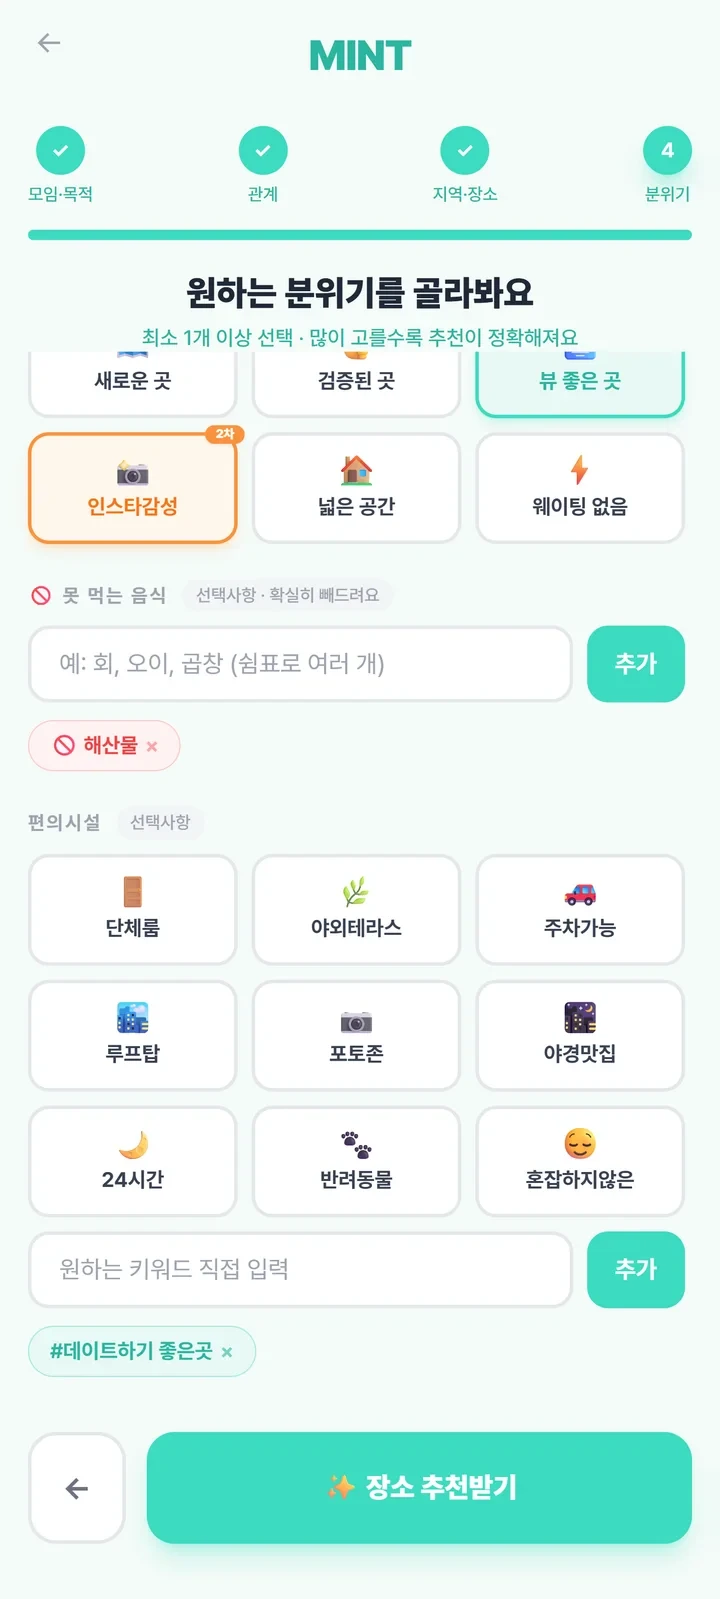
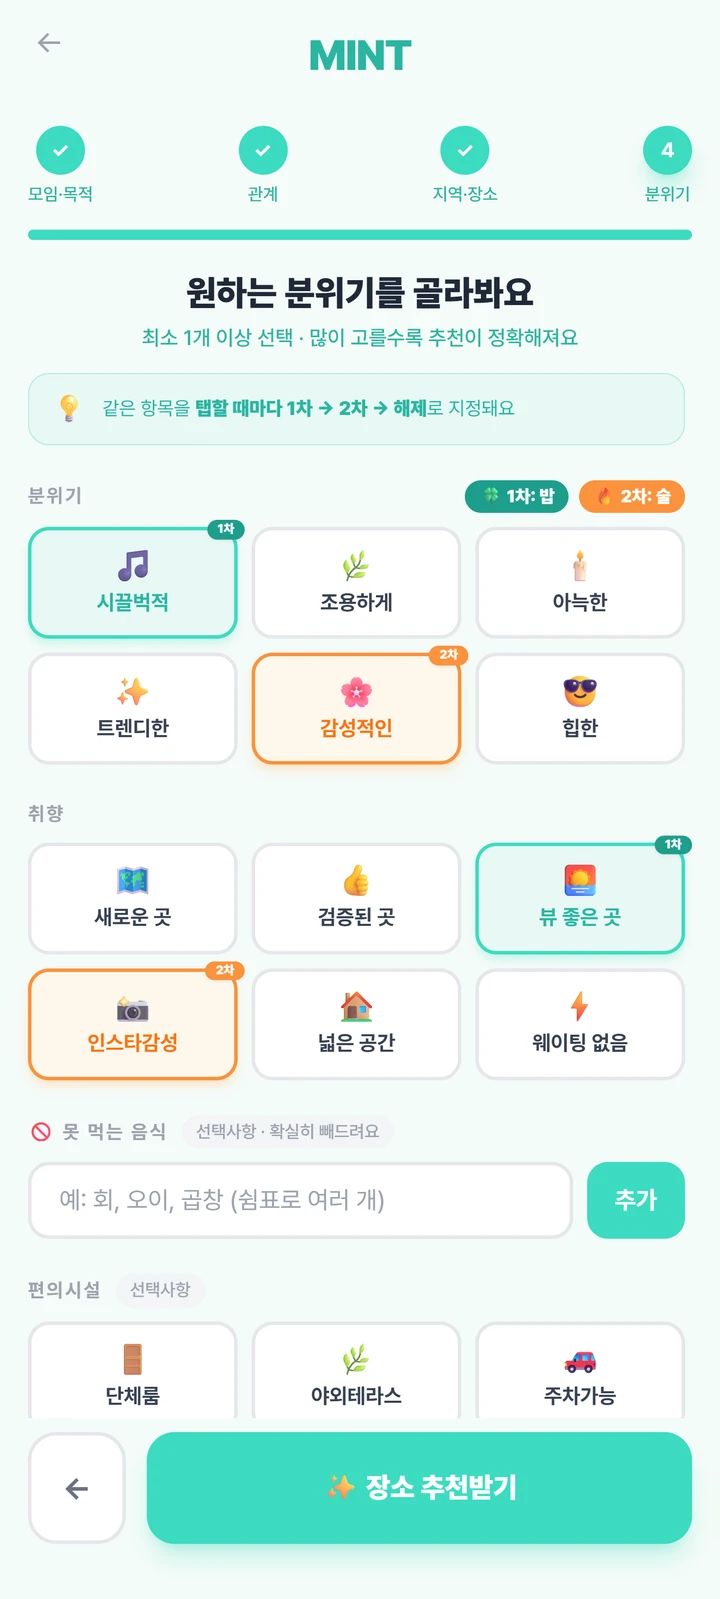
fix: 랜딩 그룹 스텝 3·4 순서 교체 + 모바일 목업 높이 정렬 + 그룹 참여 뒤로가기 하단 통일
- 그룹모드 랜딩: '취향은 몰래'(3) ↔ '각자 이름·출발지'(4) 순서 교체,
  스텝5 설명 2줄로 축약, desc에 모바일 min-h-[40px] 추가해 목업 상단 정렬.
- 취향 스텝 스크린샷(join-vibe)을 병합된 취향 화면으로 교체(스크롤바 제거).
- 그룹 참여(MemberInput): 상단 좌측 뒤로가기 제거, 혼자정하기 모드와
  동일한 하단 좌측 뒤로가기를 모든 단계에 배치(step0은 홈으로).

diff --git a/src/pages/Landing.tsx b/src/pages/Landing.tsx
@@ -439,9 +439,9 @@ export default function Landing() {
           {[
             { n: '1', title: '링크 만들기', desc: '인원수·코스만 고르면 3초 완성', img: '/image/landing/group-create.webp' },
             { n: '2', title: '단톡방에 공유', desc: '입력 현황이 실시간으로 보여요', img: '/image/landing/group-share.webp' },
-            { n: '3', title: '각자 이름·출발지', desc: '멤버는 회원가입 없이 링크만 열면 끝', img: '/image/landing/join-start.webp' },
-            { n: '4', title: '취향은 몰래', desc: '눈치 안 보고 각자 원하는 분위기 선택', img: '/image/landing/join-vibe.webp' },
-            { n: '5', title: '중간지점이든 동네든', desc: '전원 모이면 중간지점 자동 계산 or 원하는 동네 직접 선택 → 딱 1곳', img: '/image/landing/region.webp' },
+            { n: '3', title: '취향은 몰래', desc: '눈치 안 보고 각자 원하는 분위기 선택', img: '/image/landing/join-vibe.webp' },
+            { n: '4', title: '각자 이름·출발지', desc: '멤버는 회원가입 없이 링크만 열면 끝', img: '/image/landing/join-start.webp' },
+            { n: '5', title: '중간지점이든 동네든', desc: '전원 모이면 중간지점 자동 계산, 또는 원하는 동네 직접 선택', img: '/image/landing/region.webp' },
           ].map(({ n, title, desc, img }) => (
             <div key={n} className="snap-center flex-shrink-0 w-60 lg:w-full text-center">
               {/* 텍스트(번호·제목·설명)를 이미지 위에 — 혼자정하기(HOW IT WORKS)와 위치 통일 */}
@@ -449,7 +449,7 @@ export default function Landing() {
                 <span className="w-6 h-6 rounded-full bg-[#3CDBC0] text-white text-xs font-black flex items-center justify-center flex-shrink-0">{n}</span>
                 <span className="text-sm font-black text-gray-800">{title}</span>
               </div>
-              <p className="text-xs text-gray-400 mb-4 leading-relaxed lg:min-h-[48px]">{desc}</p>
+              <p className="text-xs text-gray-400 mb-4 leading-relaxed min-h-[40px] lg:min-h-[48px]">{desc}</p>
               <PhoneMockup src={img} alt={`그룹 모드 ${title}`} width="w-full" />
             </div>
           ))}

diff --git a/src/pages/MemberInput.tsx b/src/pages/MemberInput.tsx
@@ -248,14 +248,8 @@ export default function MemberInput() {
 
   return (
     <div className="h-[100dvh] bg-[#F5FBF8] flex flex-col overflow-hidden">
-      {/* 헤더 */}
-      <div className="flex-shrink-0 text-center pt-4 px-4 relative">
-        <button
-          onClick={() => window.location.href = '/'}
-          className="absolute left-4 top-1/2 -translate-y-1/2 text-gray-400 hover:text-[#2AB5A0] transition-colors p-1 text-lg"
-        >
-          ←
-        </button>
+      {/* 헤더 — 뒤로가기는 혼자정하기 모드와 동일하게 하단 좌측 버튼으로 통일 */}
+      <div className="flex-shrink-0 text-center pt-4 px-4">
         <h1 className="text-2xl font-black text-[#2AB5A0] tracking-tight">MINT</h1>
       </div>
 
@@ -359,14 +353,16 @@ export default function MemberInput() {
       {/* 하단 버튼 */}
       <div className="flex-shrink-0 px-5 pt-2 pb-8 flex flex-col gap-2">
         <div className="flex gap-3">
-          {stepIndex > 0 && (
-            <button
-              onClick={() => setPhase((['step0', 'step1', 'step2'] as const)[stepIndex - 1])}
-              className="w-14 py-4 rounded-2xl border-2 border-gray-200 bg-white text-gray-500 font-bold text-lg hover:border-gray-300 transition-all active:scale-95"
-            >
-              ←
-            </button>
-          )}
+          {/* 뒤로가기 — 모든 단계에 하단 좌측(step0은 홈으로), 혼자정하기 모드와 크기·디자인 동일 */}
+          <button
+            onClick={() => {
+              if (stepIndex === 0) window.location.href = '/';
+              else setPhase((['step0', 'step1', 'step2'] as const)[stepIndex - 1]);
+            }}
+            className="w-14 py-4 rounded-2xl border-2 border-gray-200 bg-white text-gray-500 font-bold text-lg hover:border-gray-300 transition-all active:scale-95"
+          >
+            ←
+          </button>
 
           {phase === 'step0' && (
             <button
